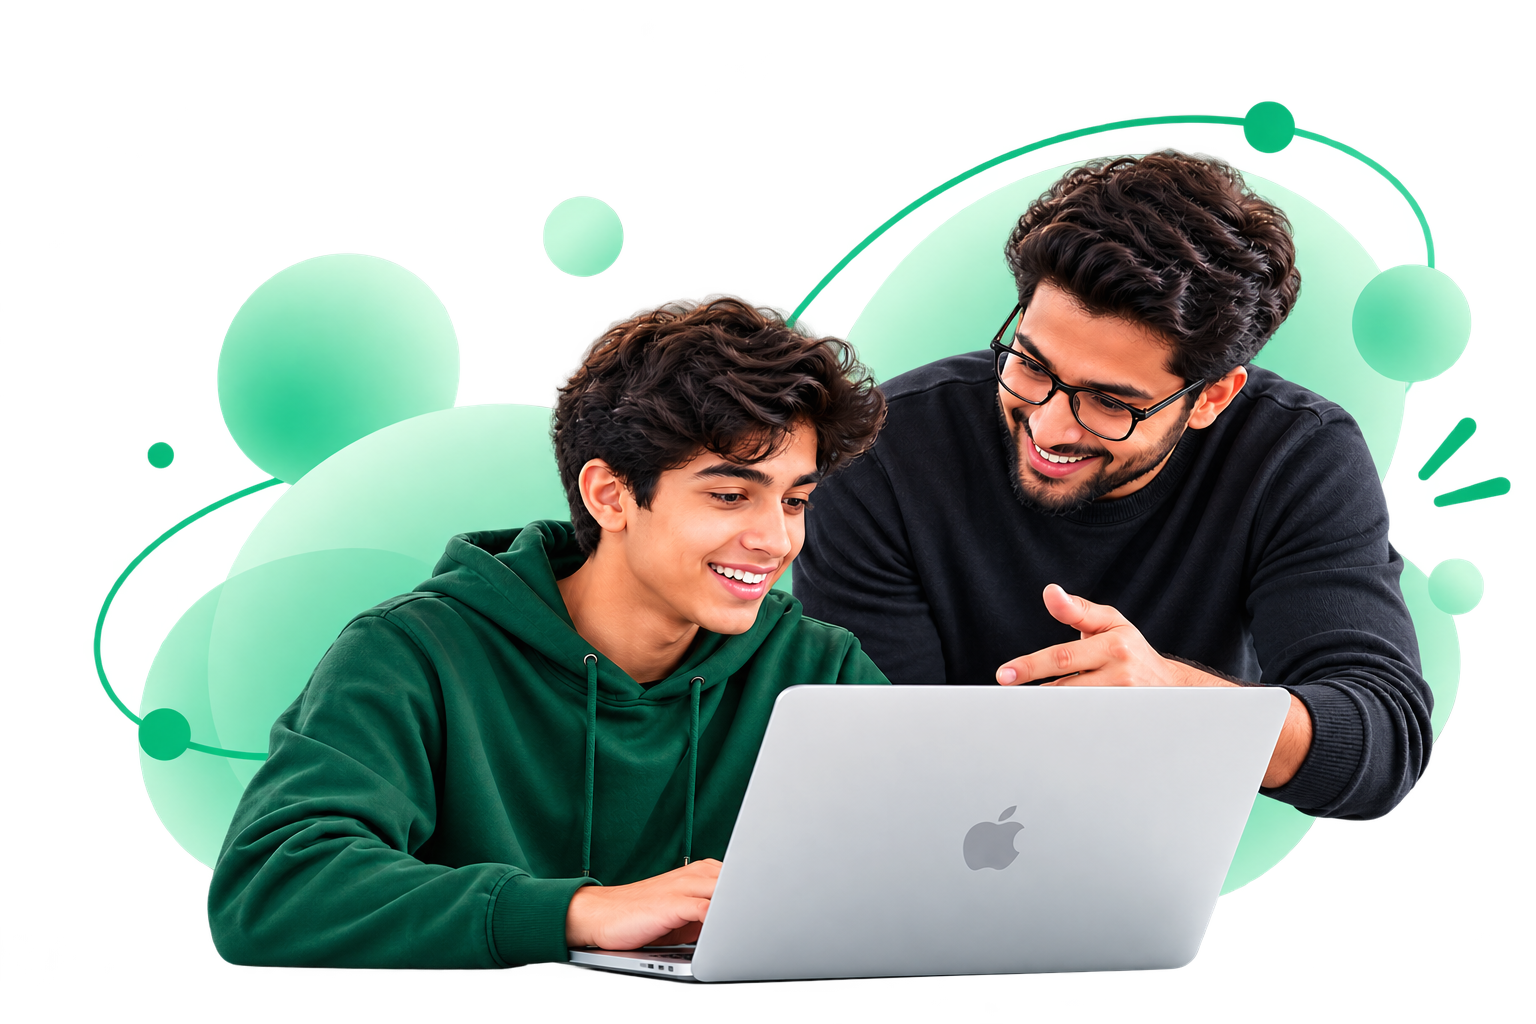
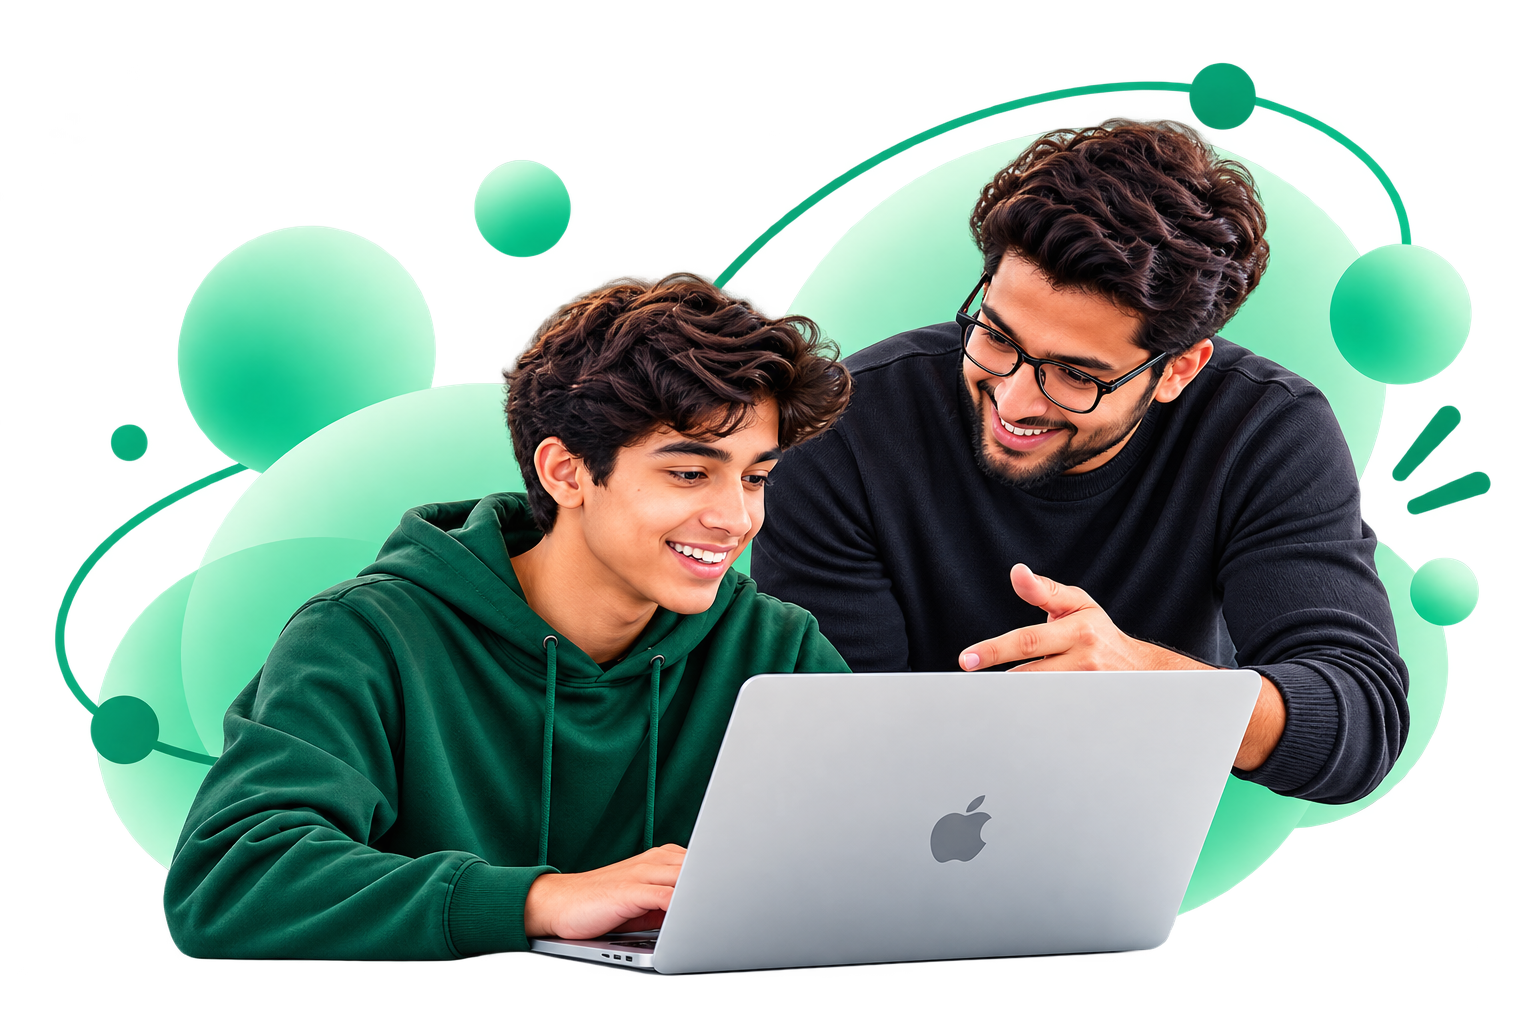
Improved mentor page

diff --git a/client/src/pages/student/Mentor.jsx b/client/src/pages/student/Mentor.jsx
@@ -235,10 +235,10 @@ function Mentor() {
             </p>
           </div>
 
-          <div className="grid grid-cols-1 md:grid-cols-3 gap-5 max-w-4xl mx-auto">
+          <div className="flex flex-row items-center gap-0 max-w-4xl mx-auto overflow-x-auto">
             {STEPS.map((step, i) => (
               <React.Fragment key={step.num}>
-                <div className="bg-white rounded-2xl border border-gray-200 p-6 hover:shadow-sm transition-shadow">
+                <div className="bg-white rounded-2xl border border-gray-200 p-6 hover:shadow-sm transition-shadow flex-1 min-w-[180px]">
                   <div className={`w-10 h-10 rounded-xl flex items-center justify-center mb-3 ${step.color}`}>
                     <svg width="18" height="18" viewBox="0 0 24 24" fill="none" stroke="currentColor" strokeWidth="2" strokeLinecap="round" strokeLinejoin="round">
                       <path d={step.iconPath}/>
@@ -248,10 +248,9 @@ function Mentor() {
                   <h3 className="text-base font-bold text-gray-900 mb-2">{step.title}</h3>
                   <p className="text-sm text-gray-500 leading-relaxed">{step.desc}</p>
                 </div>
-                {/* Arrow between cards on desktop */}
                 {i < STEPS.length - 1 && (
-                  <div className="hidden md:flex items-center justify-center -mx-8 relative z-10">
-                    <svg width="32" height="16" viewBox="0 0 32 16" fill="none">
+                  <div className="flex items-center justify-center px-3 shrink-0">
+                    <svg width="28" height="16" viewBox="0 0 32 16" fill="none">
                       <path d="M0 8h28M22 2l6 6-6 6" stroke="#d1d5db" strokeWidth="2" strokeLinecap="round" strokeLinejoin="round"/>
                     </svg>
                   </div>
